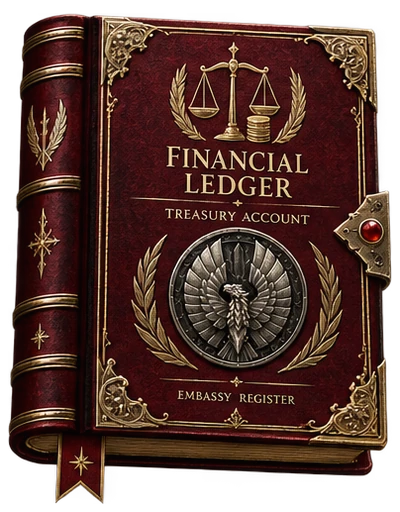
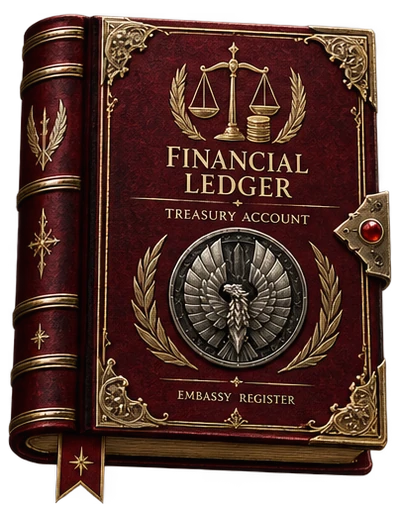
Cut the eighth book, and its seal, from the art it came in
Key the delivered cover off its white ground rather than trusting a crop.
`keyWhiteBackground()` floods in from the edges and clears only pixels it can
actually reach, so white *inside* the art — the lettering, the highlights on
the clasps — survives. A threshold crop would have eaten them.

The volume also carries its own seal. It is not a separate asset: the winged
medallion is lifted from the cover at a fixed window and masked with a radial
dest-in, so its edge feathers instead of ending in a cut circle and it drops
onto any ground. The archive keeps the shared Dominion insignia; this book
alone answers to its own mark, which is the point of it.

Every cover is regenerated because the canvas grew — this book's ribbon sits
lower than any of the others — so COVER_H moves 512 to 532 and the shelf
reserves the right space before the images land.

diff --git a/web/src/covers.ts b/web/src/covers.ts
@@ -13,6 +13,7 @@ import stipends from './assets/volumes/stipends.webp';
 import honor from './assets/volumes/honor.webp';
 import calendar from './assets/volumes/calendar.webp';
 import history from './assets/volumes/history.webp';
+import informants from './assets/volumes/informants.webp';
 
 export const COVERS: Record<VolumeSlug, string> = {
   roster,
@@ -22,8 +23,9 @@ export const COVERS: Record<VolumeSlug, string> = {
   honor,
   calendar,
   history,
+  informants,
 };
 
 /** Intrinsic size of every cover, so the shelf reserves its space up front. */
 export const COVER_W = 400;
-export const COVER_H = 512;
+export const COVER_H = 532;
